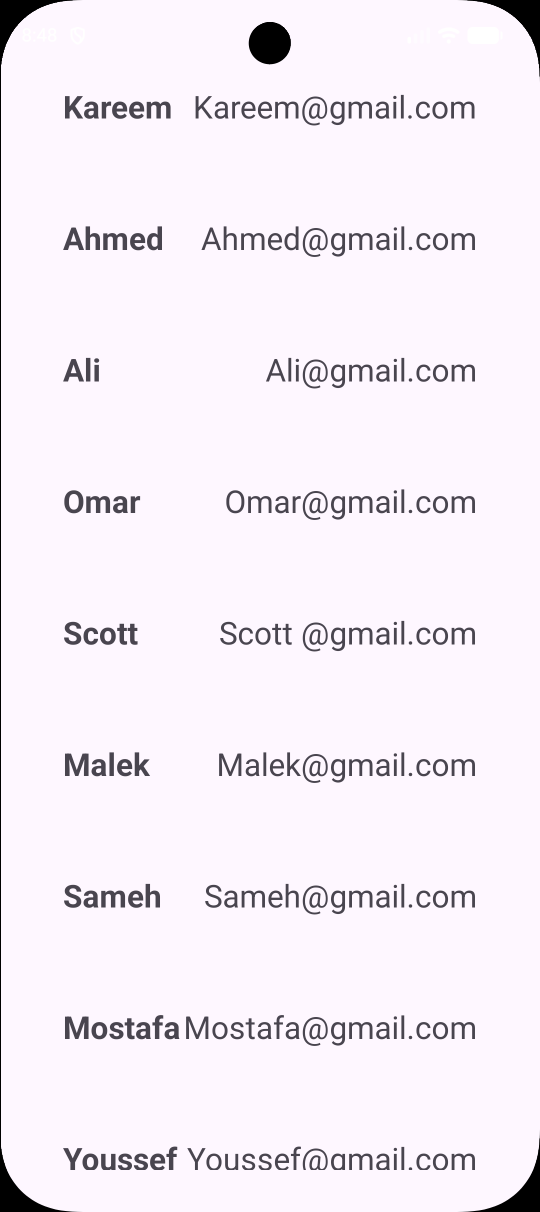
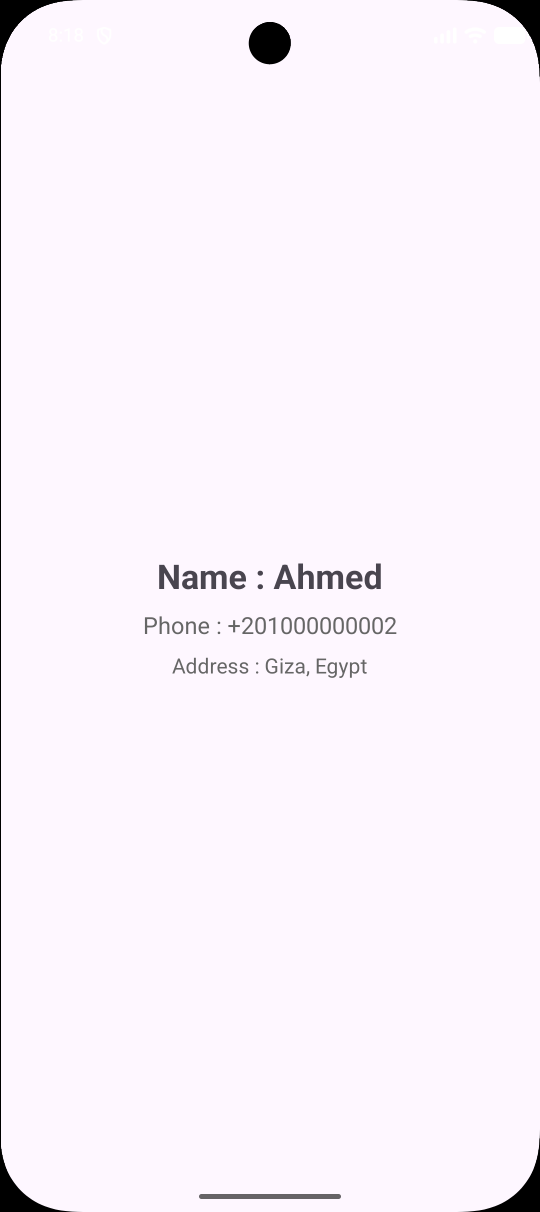
Refactor Week 3 - Day 14: Contact Task

diff --git a/Week-03/Day-14/app/src/main/java/com/example/day_14/MainActivity.kt b/Week-03/Day-14/app/src/main/java/com/example/day_14/MainActivity.kt
@@ -2,10 +2,7 @@ package com.example.day_14
 
 import android.content.Intent
 import android.os.Bundle
-import androidx.activity.enableEdgeToEdge
 import androidx.appcompat.app.AppCompatActivity
-import androidx.core.view.ViewCompat
-import androidx.core.view.WindowInsetsCompat
 import androidx.recyclerview.widget.LinearLayoutManager
 import com.example.day_14.databinding.ActivityMainBinding
 
@@ -15,37 +12,29 @@ class MainActivity : AppCompatActivity() {
         super.onCreate(savedInstanceState)
         binding = ActivityMainBinding.inflate(layoutInflater)
         setContentView(binding.root)
-        val students = listOf(
-            Students("Kareem","Kareem@gmail.com",1,21),
-            Students("Ahmed","Ahmed@gmail.com",2,22),
-            Students("Ali","Ali@gmail.com",3,22),
-            Students("Omar","Omar@gmail.com",4,25),
-            Students("Scott","Scott @gmail.com",5,21),
-            Students("Malek","Malek@gmail.com",6,12),
-            Students("Sameh","Sameh@gmail.com",7,18),
-            Students("Mostafa","Mostafa@gmail.com",8,20),
-            Students("Youssef","Youssef@gmail.com",9,20),
-            Students("Alaa","Alaa@gmail.com",10 ,11),
-            Students("Mariam","Mariam@gmail.com",11,32),
-            Students("Jana","Jana@gmail.com",12,32),
-            Students("Ramy","Ramy@gmail.com",13,22),
-            Students("Peter","Peter@gmail.com",14,12),
-            Students("Parker","Parker@gmail.com",15,42),
-            Students("John","John@gmail.com",16,35),
-            Students("Samy","Samy@gmail.com",17,37),
-            Students("Momen","Momen@gmail.com",18,38),
-            Students("Akram","Akram@gmail.com",19,31),
-            Students("Salma","Salma@gmail.com",20,30),
+        val contacts = listOf(
+            Contact( "Kareem", "Kareem@gmail.com", "+201000000001", "Cairo, Egypt"),
+            Contact( "Ahmed", "Ahmed@gmail.com", "+201000000002", "Giza, Egypt"),
+            Contact( "Ali", "Ali@gmail.com", "+201000000003", "Alexandria, Egypt"),
+            Contact( "Omar", "Omar@gmail.com", "+201000000004", "Cairo, Egypt"),
+            Contact( "Scott", "Scott@gmail.com", "+15550001111", "New York, USA"),
+            Contact( "Malek", "Malek@gmail.com", "+201000000006", "Giza, Egypt"),
+            Contact( "Sameh", "Sameh@gmail.com", "+201000000007", "Mansoura, Egypt"),
+            Contact( "Mostafa", "Mostafa@gmail.com", "+201000000008", "Cairo, Egypt"),
+            Contact( "Youssef", "Youssef@gmail.com", "+201000000009", "Tanta, Egypt"),
+            Contact( "Alaa", "Alaa@gmail.com", "+201000000010", "Cairo, Egypt")
         )
-        val adapter = StudentAdapter(students){selectedStudent ->
+        val adapter = ContactAdapter(contacts){ selectedContact ->
             val intent = Intent(this, DetailActivity::class.java).apply{
-                putExtra("STUDENT_ID",selectedStudent.id)
-                putExtra("STUDENT_AGE",selectedStudent.age)
+                putExtra("CONTACT_NAME",selectedContact.name)
+                putExtra("CONTACT_PHONE",selectedContact.phone)
+                putExtra("CONTACT_ADDRESS",selectedContact.address)
+
             }
             startActivity(intent)
         }
-        binding.rvStudent.adapter = adapter
-        binding.rvStudent.layoutManager = LinearLayoutManager(this)
+        binding.rvContact.adapter = adapter
+        binding.rvContact.layoutManager = LinearLayoutManager(this)
 
     }
 }

diff --git a/Week-03/Day-14/app/src/main/java/com/example/day_14/ContactAdapter.kt b/Week-03/Day-14/app/src/main/java/com/example/day_14/ContactAdapter.kt
@@ -1,0 +1,44 @@
+package com.example.day_14
+
+import android.view.LayoutInflater
+import android.view.ViewGroup
+import androidx.recyclerview.widget.RecyclerView
+import com.example.day_14.databinding.ItemContactBinding
+
+class ContactAdapter(
+    private val contacts: List<Contact>,
+    private val onItemClick: (Contact) -> Unit
+): RecyclerView.Adapter<ContactAdapter.ContactViewHolder>(){
+        class ContactViewHolder( val binding: ItemContactBinding) : RecyclerView.ViewHolder(binding.root)
+
+    override fun onCreateViewHolder(
+        parent: ViewGroup,
+        viewType: Int
+    ): ContactViewHolder {
+        val binding = ItemContactBinding.inflate(
+            LayoutInflater.from(parent.context),
+            parent,
+            false
+        )
+        return ContactViewHolder(binding)
+    }
+
+    override fun onBindViewHolder(
+        holder: ContactViewHolder,
+        position: Int
+    ) {
+        val currentContact = contacts[position]
+
+        holder.binding.tvName.text = currentContact.name
+        holder.binding.tvEmail.text = currentContact.email
+
+
+        holder.itemView.setOnClickListener{
+            onItemClick(currentContact)
+        }
+    }
+
+    override fun getItemCount(): Int {
+        return contacts.size
+    }
+}

diff --git a/Week-03/Day-14/app/src/main/java/com/example/day_14/DetailActivity.kt b/Week-03/Day-14/app/src/main/java/com/example/day_14/DetailActivity.kt
@@ -11,12 +11,15 @@ class DetailActivity: AppCompatActivity(){
         binding = ActivityDetailBinding.inflate(layoutInflater)
         setContentView(binding.root)
 
-        val id = intent.getIntExtra("STUDENT_ID",0)
-        val age = intent.getIntExtra("STUDENT_AGE",0)
+        val name = intent.getStringExtra("CONTACT_NAME") ?: "N/A"
+        val phone = intent.getStringExtra("CONTACT_PHONE")?: "N/A"
+        val address = intent.getStringExtra("CONTACT_ADDRESS")?: "N/A"
 
 
-        binding.tvStudentId.text = "ID : $id"
-        binding.tvStudentAge.text = "Age : $age"
+
+        binding.tvContactName.text = "Name : $name"
+        binding.tvContactPhone.text = "Phone : $phone"
+        binding.tvContactAddress.text = "Address : $address"
 
     }
 }

diff --git a/Week-03/Day-14/app/src/main/java/com/example/day_14/Contact.kt b/Week-03/Day-14/app/src/main/java/com/example/day_14/Contact.kt
@@ -1,8 +1,8 @@
 package com.example.day_14
 
-data class Students (
+data class Contact (
     val name: String,
     val email: String,
-    val id: Int,
-    val age: Int
+    val phone: String,
+    val address: String
 )
